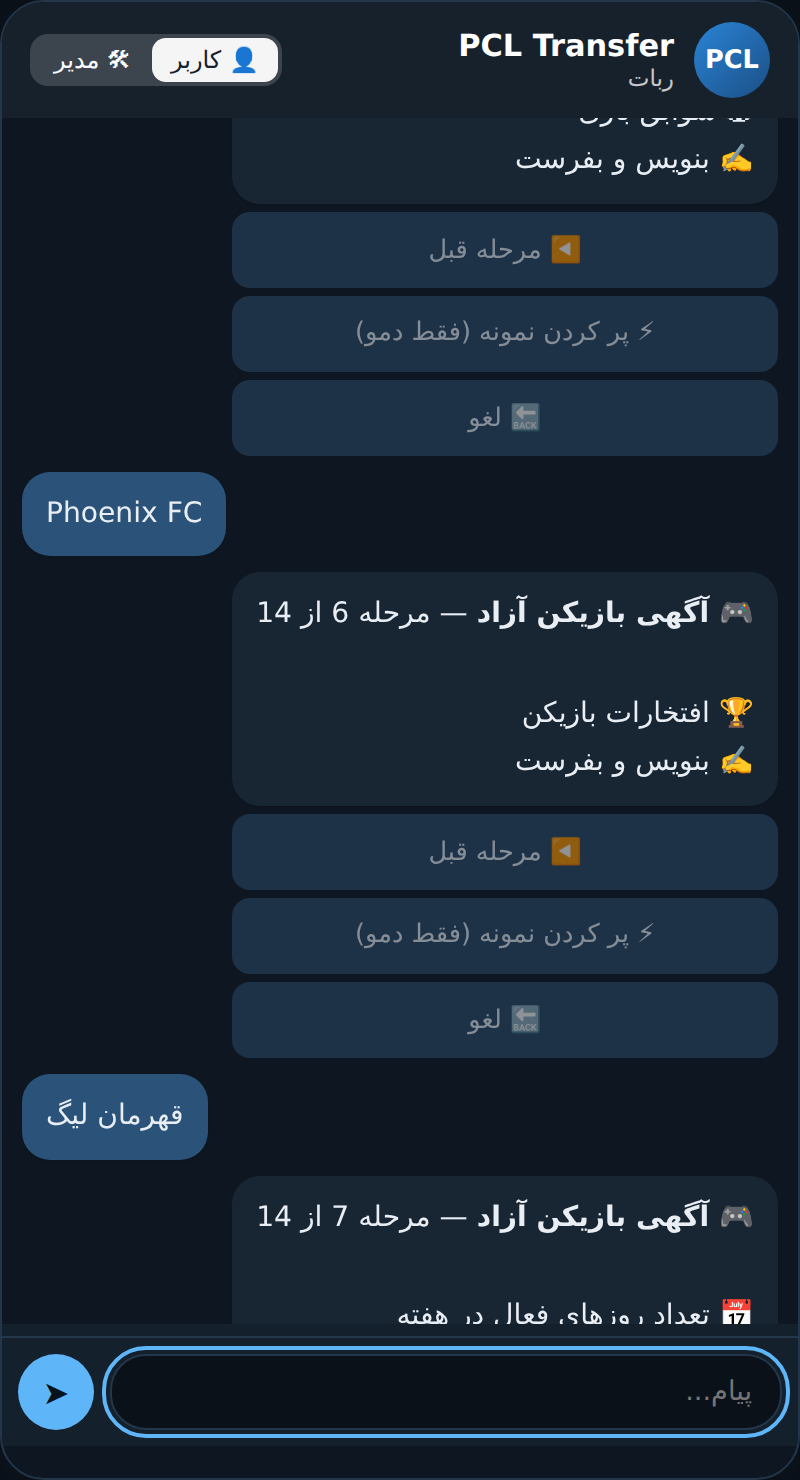
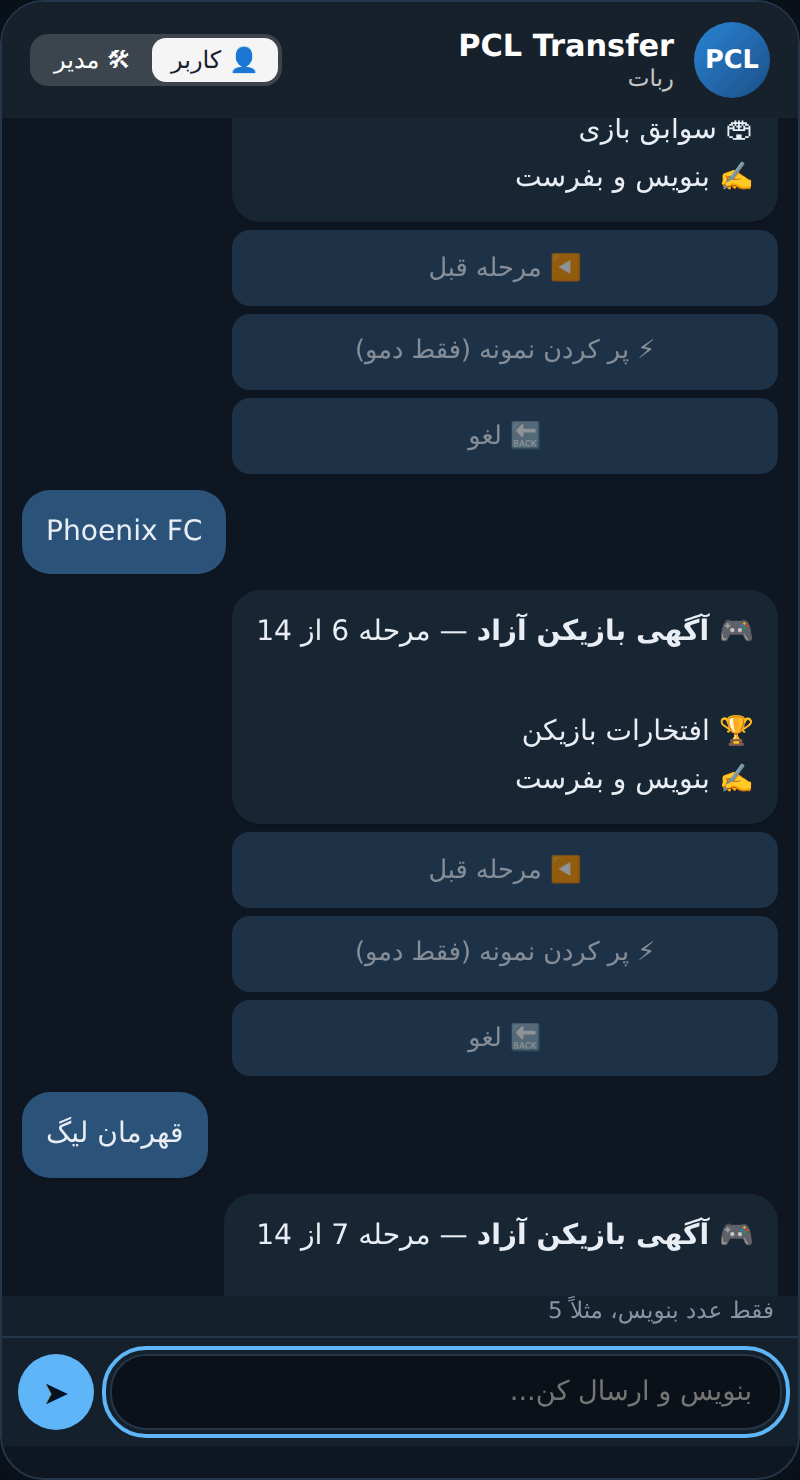
Player ad: days per week typed as number, notes is the last question
Claude-Session: https://claude.ai/code/session_01EM746abNYmdLe7nAFDnghT

diff --git a/demo/index.html b/demo/index.html
@@ -93,7 +93,7 @@ const esc=s=>String(s??'').replace(/[&<>]/g,c=>({'&':'&amp;','<':'&lt;','>':'&gt
 const fmt=n=>n.toLocaleString('en-US')+' تومان';
 const L='━━━━━━━━━━━━━━';
 const FIELDS={
- player:[['name','👤 نام بازیکن'],['psn','🆔 آیدی PSN یا EA ID'],['pos1','🎯 پست اصلی'],['pos2','🎯 پست دوم'],['history','🏟 سوابق بازی'],['honors','🏆 افتخارات بازیکن'],['days','📅 تعداد روزهای فعال در هفته'],['hours','⏰ ساعات فعالیت'],['ping','📶 پینگ (فقط عدد، به میلیثانیه)'],['stream','📡 قابلیت استریم'],['country','🌍 کشور محل زندگی'],['party','🎙 توانایی صحبت در پارتی'],['notes','📝 توضیحات تکمیلی'],['photo','🖼 تصویر کارت بازیکن']],
+ player:[['name','👤 نام بازیکن'],['psn','🆔 آیدی PSN یا EA ID'],['pos1','🎯 پست اصلی'],['pos2','🎯 پست دوم'],['history','🏟 سوابق بازی'],['honors','🏆 افتخارات بازیکن'],['days','📅 تعداد روزهای فعال در هفته (عدد ۱ تا ۷)'],['hours','⏰ ساعات فعالیت'],['ping','📶 پینگ (فقط عدد، به میلیثانیه)'],['stream','📡 قابلیت استریم'],['country','🌍 کشور محل زندگی'],['party','🎙 توانایی صحبت در پارتی'],['photo','🖼 تصویر کارت بازیکن'],['notes','📝 توضیحات تکمیلی']],
  team:[['team','🛡 نام تیم'],['logo','🖼 لوگوی تیم'],['captain_tg','✈ آیدی تلگرام کاپیتان'],['positions','🎯 پستهای موردنیاز'],['count','🔢 تعداد بازیکنان موردنیاز'],['hours','⏰ ساعات فعالیت'],['terms','📋 شرایط جذب'],['notes','📝 توضیحات تکمیلی']]};
 const OPT=['photo','logo','notes'];
 const SAMPLE={player:{name:'امیرحسین کریمی',psn:'Amir_CAM10',pos1:'CAM',pos2:'CM، RM/LM',history:'Phoenix FC، Iron Wolves',honors:'قهرمان لیگ دسته ۲ فصل ۱۴',days:'5',hours:'۲۱ تا ۲۴',ping:'45',stream:'بله',country:'ایران',party:'بله',notes:'بازیکن تیمی، میکروفون دارم',photo:'card'},
@@ -196,7 +196,7 @@ function act(a){
 }
 function curKey(){return FIELDS[S.flow.kind][S.flow.idx][0]}
 const POSK=['GK','CB','RB/LB','CDM','CM','RM/LM','CAM','ST'],YN=['بله','خیر'];
-const CHOICES={pos1:POSK,pos2:POSK,positions:POSK,days:['1','2','3','4','5','6','7'],stream:YN,party:YN};
+const CHOICES={pos1:POSK,pos2:POSK,positions:POSK,stream:YN,party:YN},NUM={days:[1,7,'5'],ping:[1,999,'45']};
 const MULTI={pos2:1,positions:1},COLS={days:4};
 function askPos(f,key,label,tot){
  const multi=!!MULTI[key],sel=f.sel||[],opts=CHOICES[key];
@@ -211,8 +211,8 @@ function ask(){const f=S.flow,[key,label]=FIELDS[f.kind][f.idx],isP=['photo','lo
  if(CHOICES[key])return askPos(f,key,label,tot);
  const rows=[];const r=[];if(OPT.includes(key))r.push(['⏭ رد کردن','skip']);if(isP)r.push(['📸 ارسال عکس نمونه','photo']);if(f.mode==='new'&&f.idx>0)r.push(['◀ مرحله قبل','prevf']);if(r.length)rows.push(r);
  rows.push([['⚡ پر کردن نمونه (فقط دمو)','sample']]);rows.push(BK('menu','🔙 لغو')); 
- const ex={hint:key==='ping'?'فقط عدد بنویس، مثلاً 45':'جواب را بنویس و ارسال کن'};
- ex.fn=t=>{if(key==='ping'){const n=parseInt(t.replace(/[۰-۹]/g,c=>'۰۱۲۳۴۵۶۷۸۹'.indexOf(c)));if(!/^[0-9۰-۹]+$/.test(t.trim())||n<1||n>999){S.expect=ex;return say('⚠ فقط یک عدد بین ۱ تا ۹۹۹ بنویس. مثلاً: 45')}t=String(n)}S.flow.vals[key]=t;adv()};
+ const nm=NUM[key],ex={hint:nm?'فقط عدد بنویس، مثلاً '+nm[2]:'جواب را بنویس و ارسال کن'};
+ ex.fn=t=>{if(nm){const n=parseInt(t.replace(/[۰-۹]/g,c=>'۰۱۲۳۴۵۶۷۸۹'.indexOf(c)));if(!/^[0-9۰-۹]+$/.test(t.trim())||n<nm[0]||n>nm[1]){S.expect=ex;return say(`⚠ فقط یک عدد بین ${nm[0]} تا ${nm[1]} بنویس. مثلاً: ${nm[2]}`)}t=String(n)}S.flow.vals[key]=t;adv()};
  S.expect=isP?null:ex;
  screen(`<b>${f.kind==='player'?'🎮 آگهی بازیکن آزاد':'🛡 آگهی جذب بازیکن'}</b>${f.mode==='new'?` — مرحله ${f.idx+1} از ${tot}`:''}\n\n${label}\n${isP?'📸 تصویر رو بفرست':'✍ بنویس و بفرست'}${OPT.includes(key)?'\n(اختیاری)':''}`,rows);paint()}
 function adv(){const f=S.flow;if(f.mode==='new'){if(f.idx+1<FIELDS[f.kind].length){f.idx++;ask()}else preview()}else{f.mode='new';preview()}}

diff --git a/pclbot/handlers/ads.py b/pclbot/handlers/ads.py
@@ -8,7 +8,7 @@ from aiogram.types import CallbackQuery, Message
 
 from .. import db, services
 from ..keyboards import back, btn, kb, pairs
-from ..texts import (CHOICE_COLS, CHOICE_MODE, CHOICES, KIND_TITLE, NO_POS, OPTIONAL, POSITIONS, STATUS_TITLE, fields_of,
+from ..texts import (CHOICE_COLS, CHOICE_MODE, CHOICES, KIND_TITLE, NO_POS, NUMERIC, OPTIONAL, POSITIONS, STATUS_TITLE, fields_of,
                      fingerprint, fmt_date, money, render_ad)
 from ..utils import is_admin, show
 
@@ -52,8 +52,8 @@ async def ask(event: CallbackQuery | Message, state: FSMContext) -> None:
     if key in CHOICE_MODE:
         return await ask_position(event, state, data, key, label, head)
     hint = "📸 تصویر رو بفرست" if kind == "photo" else "✍ بنویس و بفرست"
-    if key == "ping":
-        hint = "✍ فقط عدد بنویس، مثلاً 45"
+    if key in NUMERIC:
+        hint = f"✍ فقط عدد بنویس، مثلاً {NUMERIC[key][2]}"
     text = f"{head}\n\n{label}\n{hint}" + ("\n(اختیاری)" if key in OPTIONAL else "")
     row = []
     if key in OPTIONAL:
@@ -256,10 +256,11 @@ async def got_value(m: Message, state: FSMContext, bot: Bot):
         limit = 500 if key == "notes" else 200
         if len(value) > limit:
             return await m.answer(f"⚠ حداکثر {limit} کاراکتر مجازه. کوتاهترش کن.")
-        if key == "ping":
+        if key in NUMERIC:
+            lo, hi, example = NUMERIC[key]
             value = value.translate(str.maketrans("۰۱۲۳۴۵۶۷۸۹٠١٢٣٤٥٦٧٨٩", "01234567890123456789"))
-            if not value.isdigit() or not 1 <= int(value) <= 999:
-                return await m.answer("⚠ فقط یک عدد بین ۱ تا ۹۹۹ بنویس. مثلاً: 45")
+            if not value.isdigit() or not lo <= int(value) <= hi:
+                return await m.answer(f"⚠ فقط یک عدد بین {lo} تا {hi} بنویس. مثلاً: {example}")
             value = str(int(value))
         if key == "captain_tg" and not TG_RE.match(value):
             return await m.answer("⚠ آیدی تلگرام معتبر نیست. مثل: @captain_pcl")

diff --git a/pclbot/texts.py b/pclbot/texts.py
@@ -9,14 +9,14 @@ PLAYER_FIELDS = [
     ("pos2", "🎯 پست دوم", "text"),
     ("history", "🏟 سوابق بازی", "text"),
     ("honors", "🏆 افتخارات بازیکن", "text"),
-    ("days", "📅 تعداد روزهای فعال در هفته", "text"),
+    ("days", "📅 تعداد روزهای فعال در هفته (عدد ۱ تا ۷)", "text"),
     ("hours", "⏰ ساعات فعالیت", "text"),
     ("ping", "📶 پینگ (فقط عدد، به میلیثانیه)", "text"),
     ("stream", "📡 قابلیت استریم", "text"),
     ("country", "🌍 کشور محل زندگی", "text"),
     ("party", "🎙 توانایی صحبت در پارتی", "text"),
-    ("notes", "📝 توضیحات تکمیلی", "text"),
     ("photo", "🖼 تصویر کارت بازیکن", "photo"),
+    ("notes", "📝 توضیحات تکمیلی", "text"),  # always the last question
 ]
 TEAM_FIELDS = [
     ("team", "🛡 نام تیم", "text"),
@@ -35,10 +35,12 @@ POSITIONS = ["GK", "CB", "RB/LB", "CDM", "CM", "RM/LM", "CAM", "ST"]
 YES_NO = ["بله", "خیر"]
 CHOICES = {
     "pos1": POSITIONS, "pos2": POSITIONS, "positions": POSITIONS,
-    "days": [str(i) for i in range(1, 8)], "stream": YES_NO, "party": YES_NO,
+    "stream": YES_NO, "party": YES_NO,
 }
-CHOICE_MODE = {"pos1": "single", "pos2": "multi", "positions": "multi", "days": "single", "stream": "single", "party": "single"}
-CHOICE_COLS = {"days": 4}
+CHOICE_MODE = {"pos1": "single", "pos2": "multi", "positions": "multi", "stream": "single", "party": "single"}
+CHOICE_COLS: dict[str, int] = {}
+# Digits-only questions: key -> (min, max, example)
+NUMERIC = {"days": (1, 7, "5"), "ping": (1, 999, "45")}
 NO_POS = "ندارد"
 
 KIND_TITLE = {"player": "🎮 آگهی بازیکن آزاد", "team": "🛡 آگهی جذب بازیکن"}
